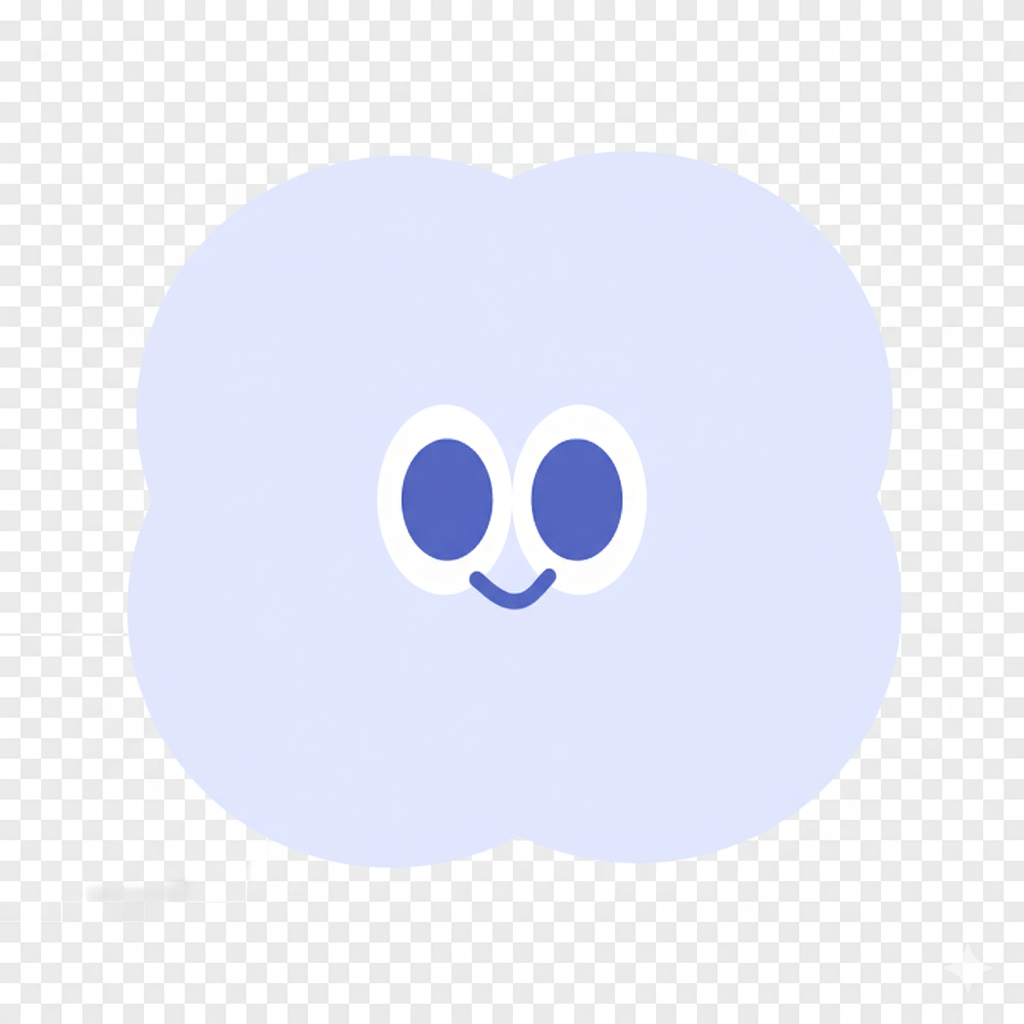
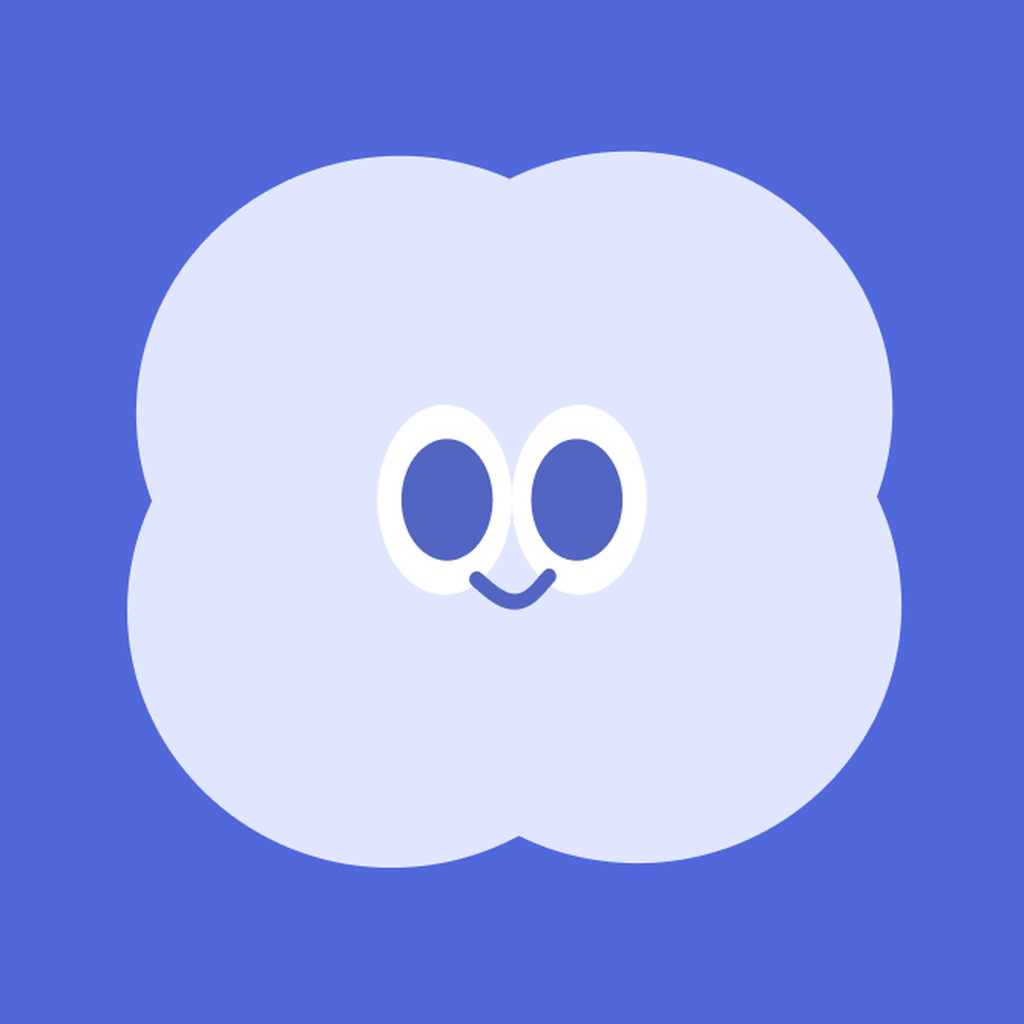
feat. 안드로이드 빌드 오류 수정

diff --git a/app.config.js b/app.config.js
@@ -33,12 +33,13 @@ export default {
       },
     },
     android: {
-      adaptiveIcon: {
-        foregroundImage: "./assets/adaptive-icon.png",
-        backgroundColor: "#ffffff"
+      adaptiveIcon: null,
+      splash: {
+        backgroundColor: "#5168DB"
       },
       package: "com.moodlyfrontend",
       googleServicesFile: "./google-services.json",
+      versionCode: 1
     },
     plugins: [
       "@react-native-google-signin/google-signin",
